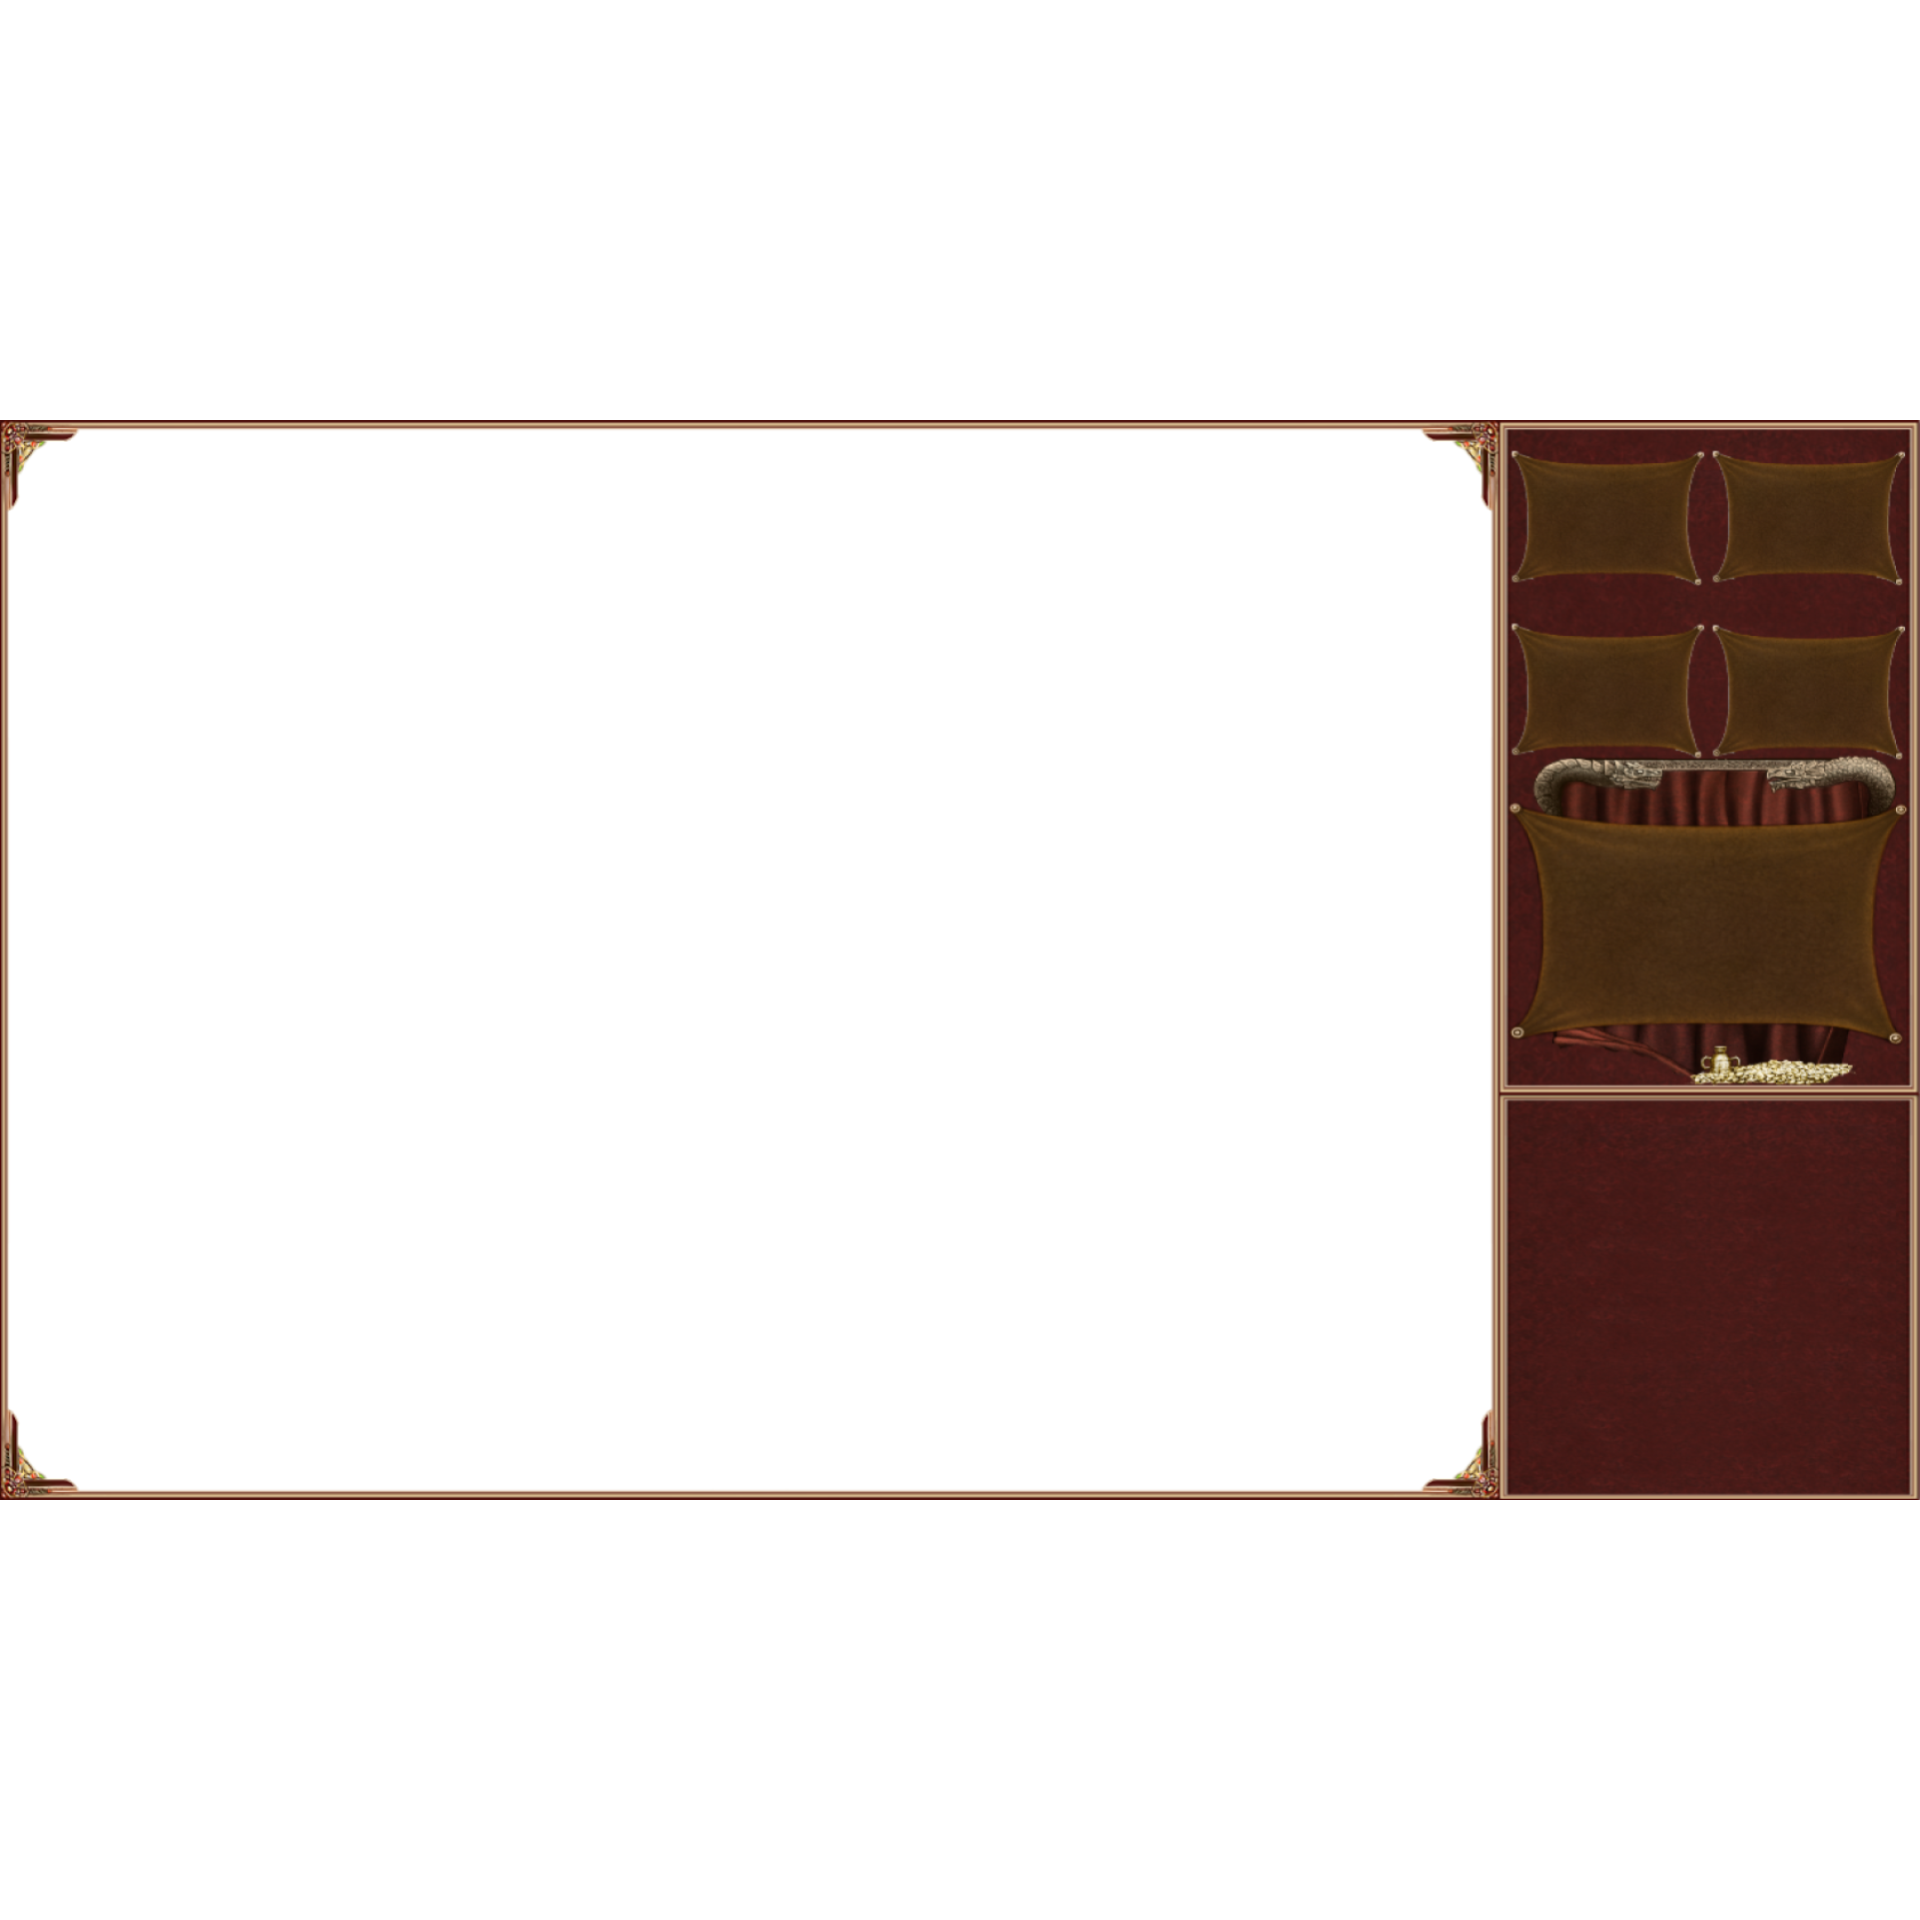
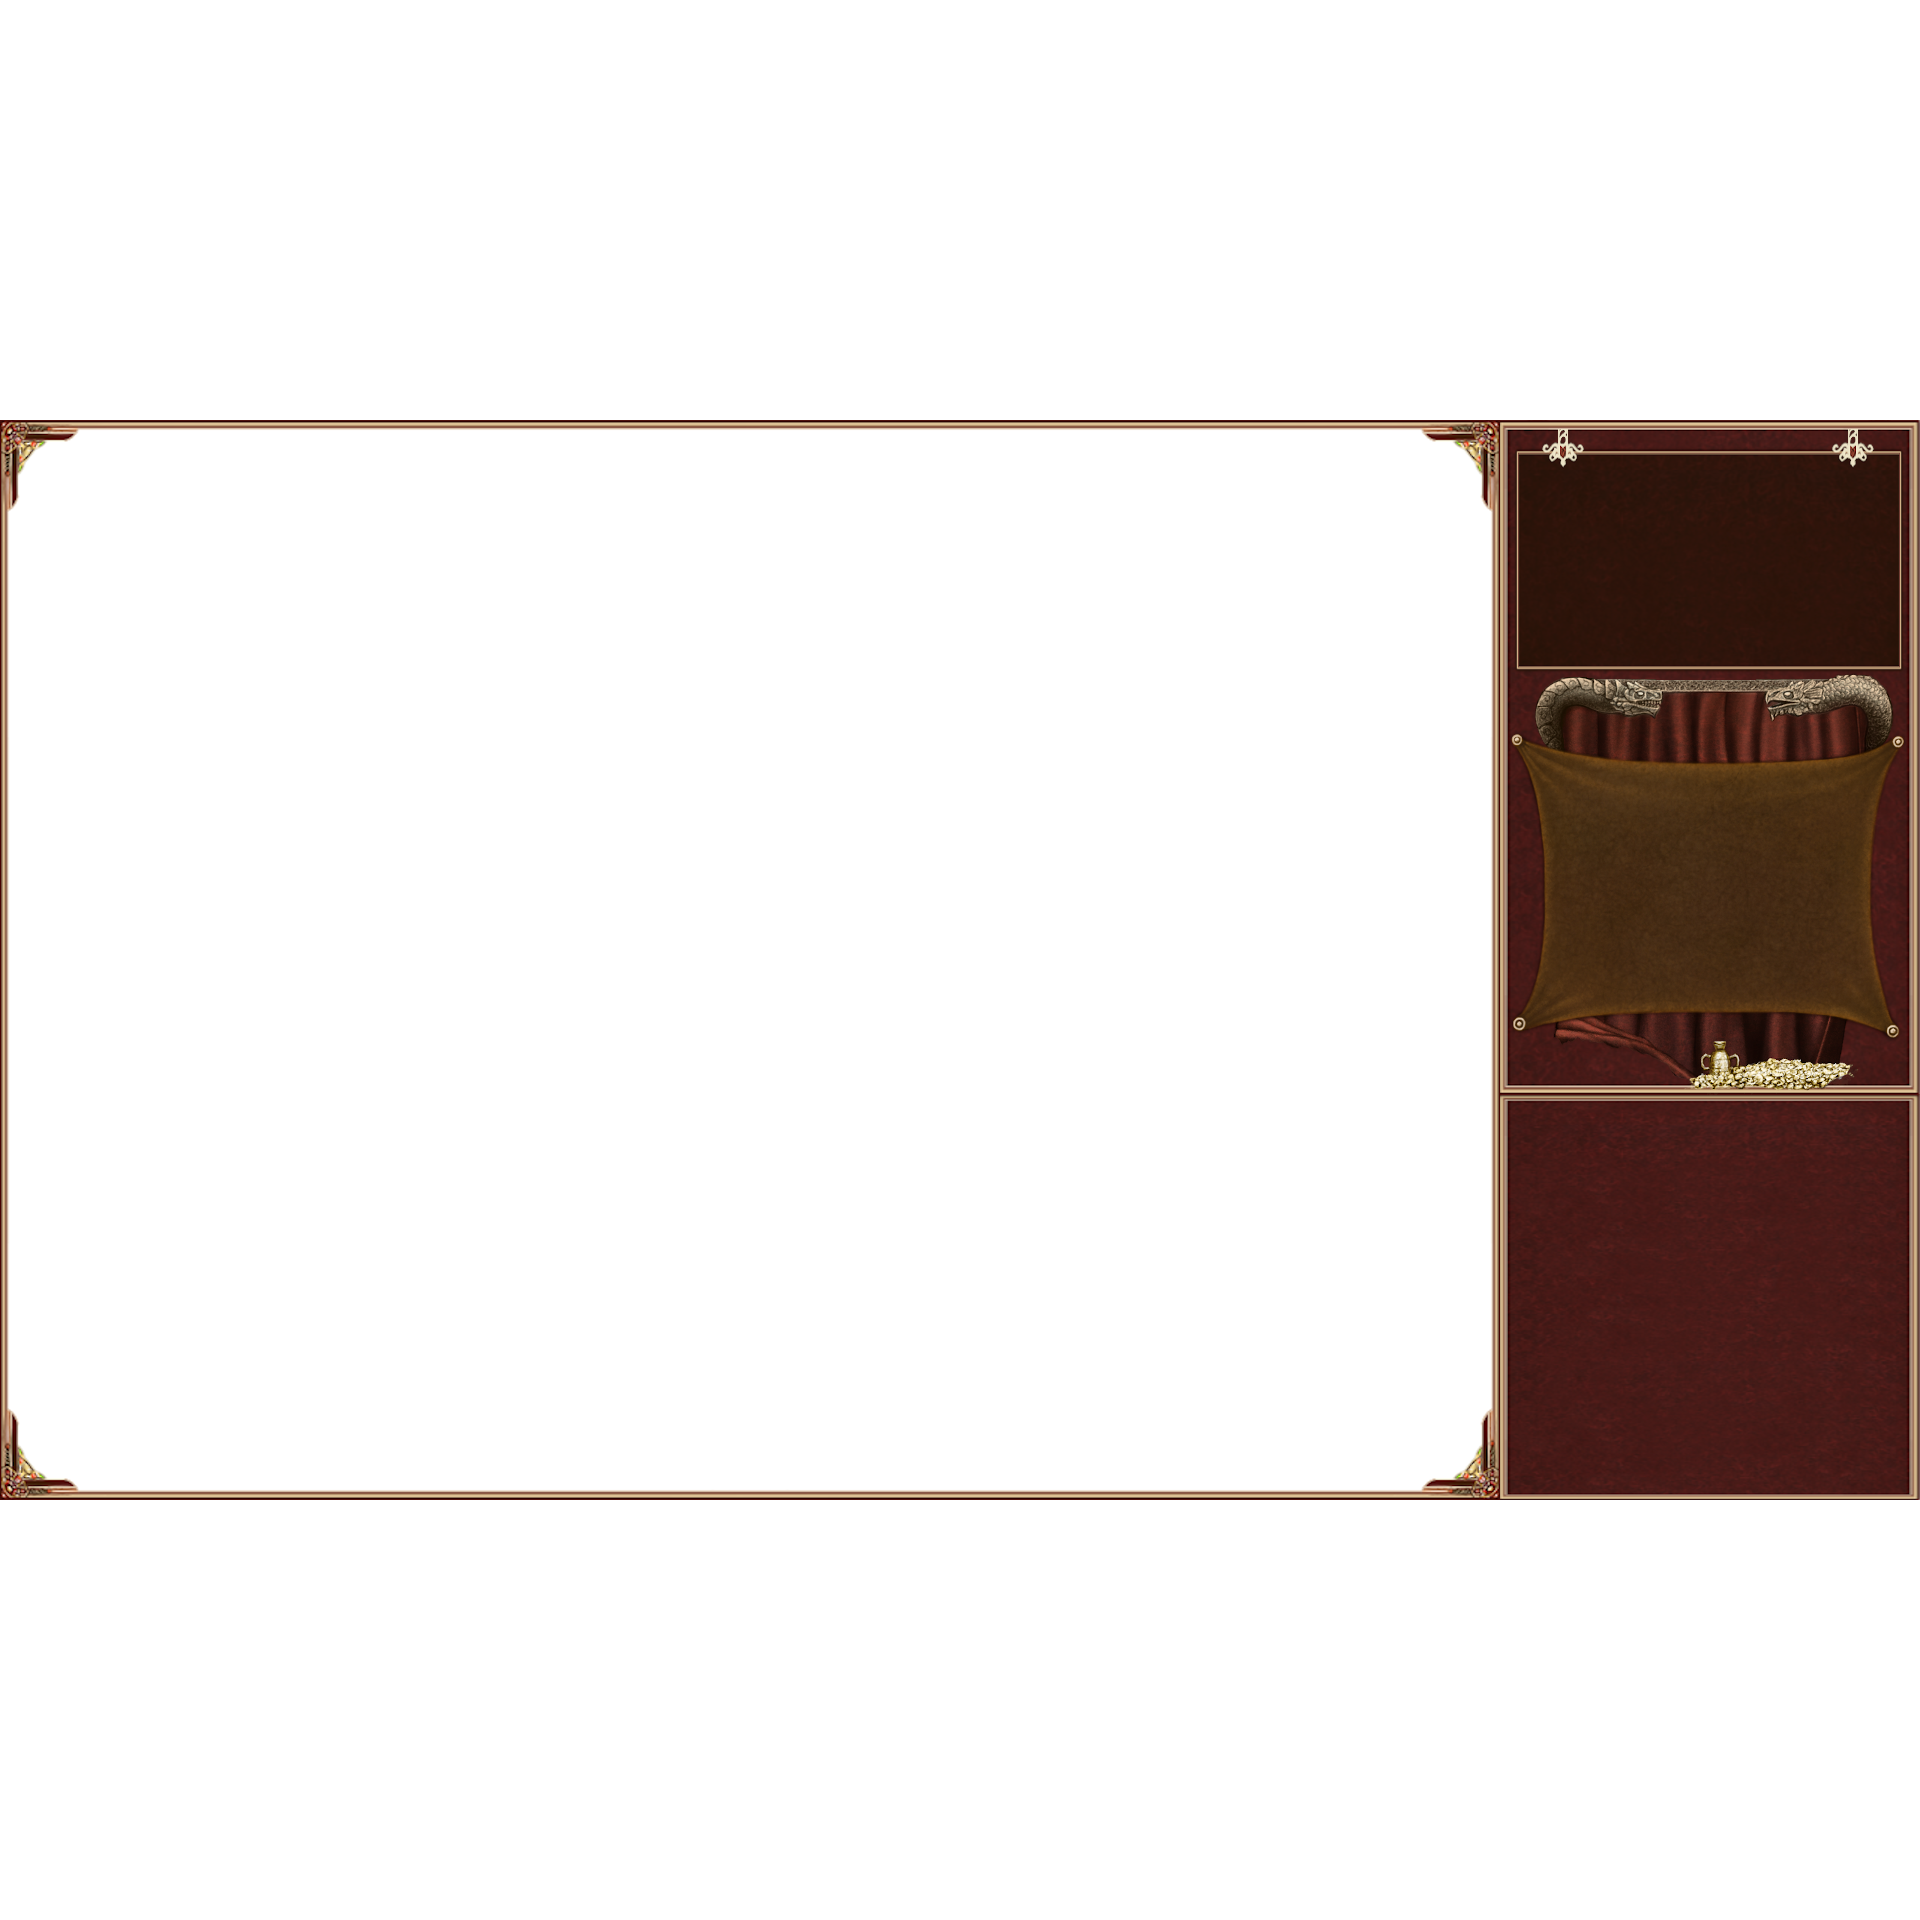
Added new textures

diff --git a/RiD_RPGproject/RiD_RPGproject/ObiectGenerator.cpp b/RiD_RPGproject/RiD_RPGproject/ObiectGenerator.cpp
@@ -134,7 +134,7 @@ MP::ObiectGenerator::ObiectGenerator()
 void MP::ObiectGenerator::generateObiects(ObiectManager& aObiectManager)
 {
 	_a_asset_manager.setTexture("tree", "img/mpimg/mptree.png");
-	_a_asset_manager.setTexture("land", "img/mpimg/mpgrass6.png");
+	_a_asset_manager.setTexture("land", "img/mpimg/mpgrass8.png");
 	_a_asset_manager.setTexture("player", "img/mpimg/mpcharacter.png");
 	_a_asset_manager.setTexture("village", "img/mpimg/places/mpvillage.png");
 	_a_asset_manager.setTexture("town", "img/mpimg/places/mptown.png");
@@ -144,9 +144,9 @@ void MP::ObiectGenerator::generateObiects(ObiectManager& aObiectManager)
 	_a_asset_manager.setTexture("iron", "img/mpimg/icons/iron.png");
 	_a_asset_manager.setTexture("food", "img/mpimg/icons/food.png");
 	_a_asset_manager.setTexture("gold", "img/mpimg/icons/gold.png");
-	_a_asset_manager.setTexture("archer", "img/mpimg/icons/archer.png");
-	_a_asset_manager.setTexture("swordsman", "img/mpimg/icons/swordsman.png");
-	_a_asset_manager.setTexture("spearman", "img/mpimg/icons/spearman.png");
+	_a_asset_manager.setTexture("archer", "img/mpimg/icons/archer2.png");
+	_a_asset_manager.setTexture("swordsman", "img/mpimg/icons/swordsman2.png");
+	_a_asset_manager.setTexture("spearman", "img/mpimg/icons/spearman2.png");
 	_a_asset_manager.setTexture("pathicon", "img/mpimg/icons/move.png");
 	_a_asset_manager.setTexture("mapgui", "img/GUI/rid_map_gui_2.png");
 	_a_asset_manager.setTexture("menu", "img/GUI/rid_main_menu.png");

diff --git a/RiD_RPGproject/RiD_RPGproject/MapGui.cpp b/RiD_RPGproject/RiD_RPGproject/MapGui.cpp
@@ -13,11 +13,11 @@ void MP::MapGui::updateItems(ItemsManager& aItemsManager)
 {
 	aItemsManager.getWood()->setItemPosition(sf::Vector2f(1100, 25));
 	aItemsManager.getIron()->setItemPosition(sf::Vector2f(1300, 25));
-	aItemsManager.getGold()->setItemPosition(sf::Vector2f(1100, 200));
-	aItemsManager.getFood()->setItemPosition(sf::Vector2f(1300, 200));
-	aItemsManager.getArcher()->setItemPosition(sf::Vector2f(1100, 410));
-	aItemsManager.getSwordsman()->setItemPosition(sf::Vector2f(1200, 410));
-	aItemsManager.getSpearman()->setItemPosition(sf::Vector2f(1300, 400));
+	aItemsManager.getGold()->setItemPosition(sf::Vector2f(1100, 100));
+	aItemsManager.getFood()->setItemPosition(sf::Vector2f(1300, 100));
+	aItemsManager.getArcher()->setItemPosition(sf::Vector2f(1040, 310));
+	aItemsManager.getSwordsman()->setItemPosition(sf::Vector2f(1155, 310));
+	aItemsManager.getSpearman()->setItemPosition(sf::Vector2f(1250, 290));
 }
 
 void MP::MapGui::drawMapGui(sf::RenderWindow& mainWindow, ItemsManager& aItemsManager)

diff --git a/RiD_RPGproject/RiD_RPGproject/Spearman.cpp b/RiD_RPGproject/RiD_RPGproject/Spearman.cpp
@@ -6,8 +6,7 @@ MP::Spearman::Spearman()
 
 MP::Spearman::Spearman(sf::Texture* texturePtr, sf::Font& aFont)
 {
-	aAnimation.loadObiectTextures(texturePtr, 1, 1, 64);
-	aAnimation.setScale(2, 2);
+	aAnimation.loadObiectTextures(texturePtr, 1, 1, 236);
 	_item_amount_text.setFont(aFont);
 	setItemAmount(0);//it set text to
 	_item_amount_text.setLetterSpacing(1);
@@ -30,8 +29,8 @@ unsigned int& MP::Spearman::getItemAmount()
 void MP::Spearman::setItemPosition(sf::Vector2f itemPosition)
 {
 	setObiectCoord(itemPosition);
-	itemPosition.x += 70;
-	itemPosition.y += 100;
+	itemPosition.x += 80;
+	itemPosition.y += 221;
 	_item_amount_text.setPosition(itemPosition);
 }
 

diff --git a/RiD_RPGproject/RiD_RPGproject/Swordsman.cpp b/RiD_RPGproject/RiD_RPGproject/Swordsman.cpp
@@ -6,8 +6,7 @@ MP::Swordsman::Swordsman()
 
 MP::Swordsman::Swordsman(sf::Texture* texturePtr, sf::Font& aFont)
 {
-	aAnimation.loadObiectTextures(texturePtr, 1, 1, 64);
-	aAnimation.setScale(1.6, 1.60);
+	aAnimation.loadObiectTextures(texturePtr, 1, 1, 202);
 	_item_amount_text.setFont(aFont);
 	setItemAmount(0);//it set text to
 	_item_amount_text.setLetterSpacing(1);
@@ -31,7 +30,7 @@ void MP::Swordsman::setItemPosition(sf::Vector2f itemPosition)
 {
 	setObiectCoord(itemPosition);
 	itemPosition.x += 70;
-	itemPosition.y += 90;
+	itemPosition.y += 200;
 
 	_item_amount_text.setPosition(itemPosition);
 }

diff --git a/RiD_RPGproject/RiD_RPGproject/Archer.cpp b/RiD_RPGproject/RiD_RPGproject/Archer.cpp
@@ -7,8 +7,7 @@ MP::Archer::Archer()
 MP::Archer::Archer(sf::Texture* texturePtr, sf::Font& aFont)
 {
 
-	aAnimation.loadObiectTextures(texturePtr, 1, 1, 64);
-	aAnimation.setScale(1.6, 1.6);
+	aAnimation.loadObiectTextures(texturePtr, 1, 1, 202);
 	_item_amount_text.setFont(aFont);
 	setItemAmount(0);//it set text to
 	_item_amount_text.setLetterSpacing(1);
@@ -32,7 +31,7 @@ void MP::Archer::setItemPosition(sf::Vector2f itemPosition)
 {
 	setObiectCoord(itemPosition);
 	itemPosition.x += 70;
-	itemPosition.y += 90;
+	itemPosition.y += 197;
 
 	_item_amount_text.setPosition(itemPosition);
 }
